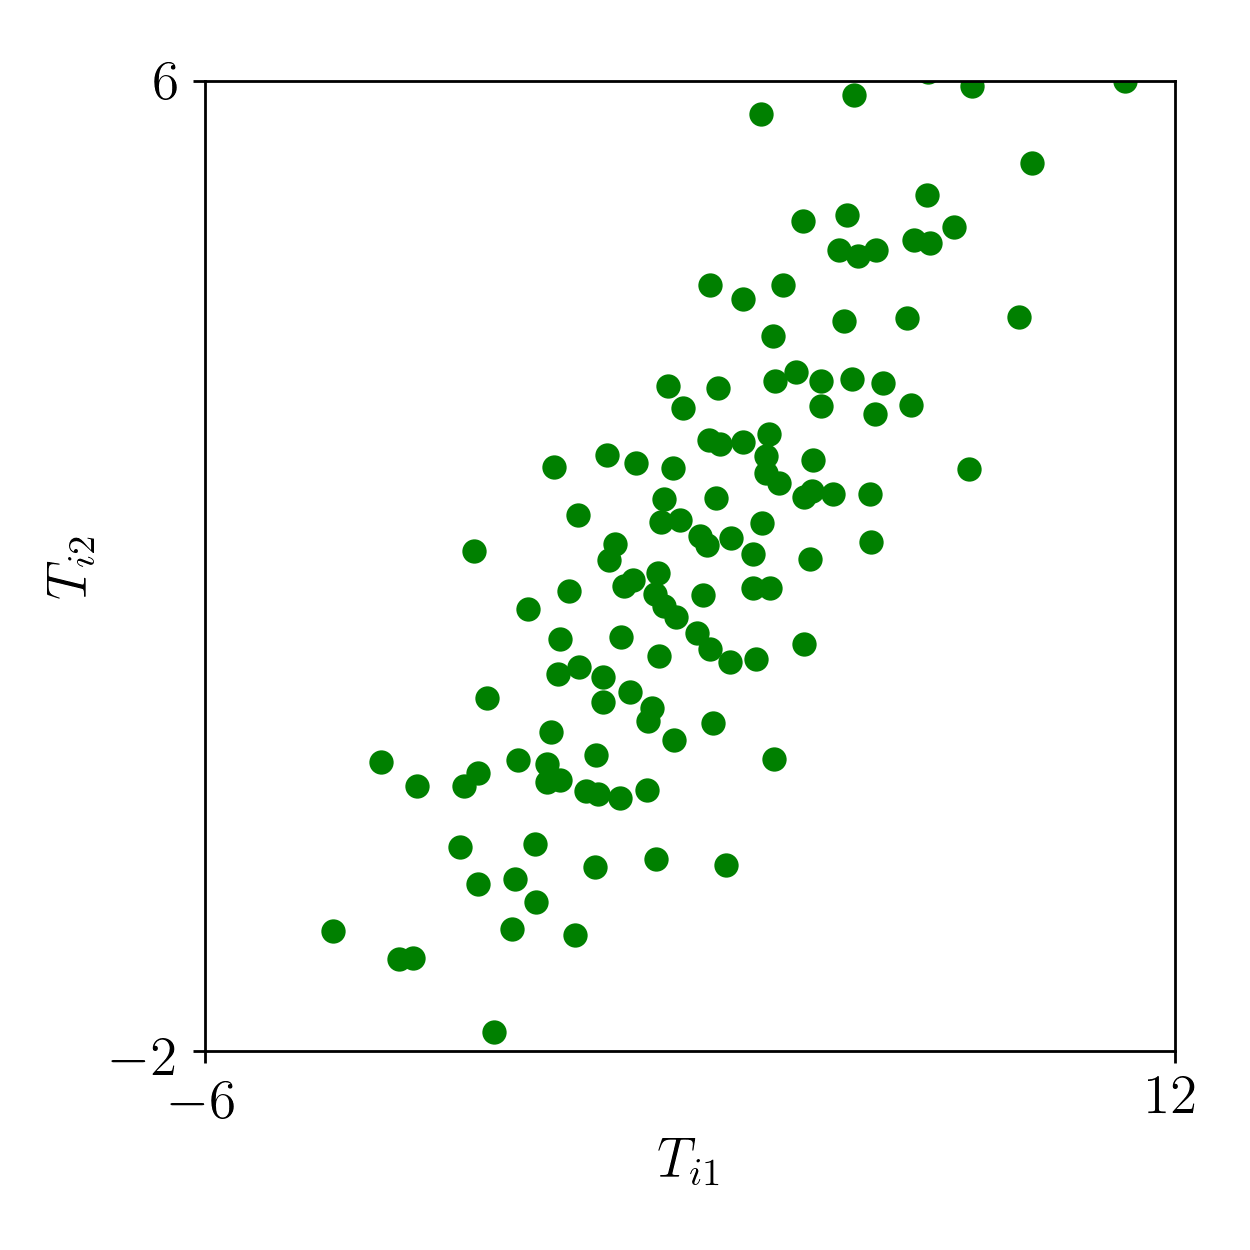
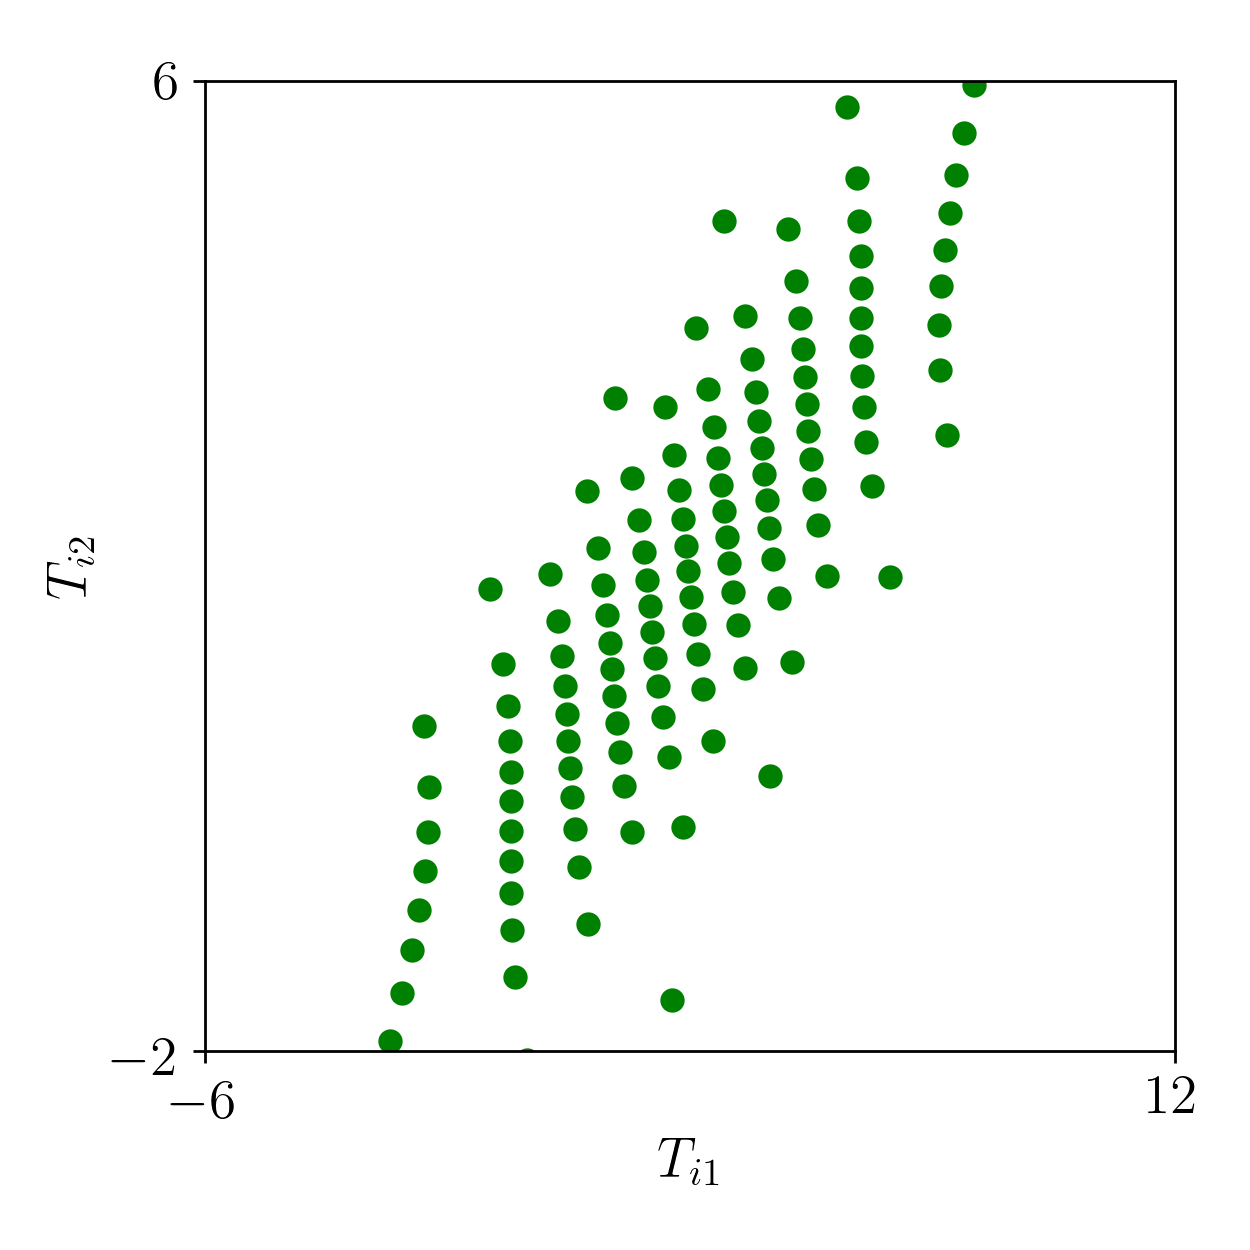
aleksei: fig3 updates

diff --git a/QMCSoftwareArticleNoRho.tex b/QMCSoftwareArticleNoRho.tex
@@ -413,9 +413,9 @@ Here the covariance decomposition $\mSigma = \mA \mA^T$ is done using principal 
 	\includegraphics[width=.45\textwidth]{QMCSoftwareArticle/figs/tm_uniform.png} 
 	%	\quad
 	\includegraphics[width=.45\textwidth]{QMCSoftwareArticle/figs/tm_gaussian.png}
-	\caption{Sobol' samples transformed to mimic a uniform $\calU\left( \begin{bmatrix} -2 \\ 0 \end{bmatrix},\begin{bmatrix} 2 \\ 4 \end{bmatrix} \right)$ 
+	\caption{Halton samples transformed to mimic a uniform $\calU\left( \begin{bmatrix} -2 \\ 0 \end{bmatrix},\begin{bmatrix} 2 \\ 4 \end{bmatrix} \right)$ 
 	%\frednote{This is not correct, we need the upper and lower endponts of a two dimensional interval.  Also, are these Sobol' or Halton as in the code?} 
-	(left) and  Gaussian $\calN\left(\begin{bmatrix} 3 \\ 2 \end{bmatrix}, \begin{bmatrix} 9 & 5 \\ 5 & 4 \end{bmatrix} \right)$ (right) distribution.}
+	distribution (left) and Lattice samples transformed to mimic a Gaussian $\calN\left(\begin{bmatrix} 3 \\ 2 \end{bmatrix}, \begin{bmatrix} 9 & 5 \\ 5 & 4 \end{bmatrix} \right)$ distribution (right).}
 	\label{fig:tm_ug}
 \end{figure}
 
@@ -632,7 +632,7 @@ We also plan to expand our library of digital net generating matrices. We wish t
 
 Our \texttt{DiscreteDistrution} places equal weights on each support point, $\bsX_i$.  In the future, we might generalize this to unequal weights.
 
-QMCPy already includes importance sampling, but the choice of sampling distribution must be chosen a priori.  We would like to see an automatic, adaptive choice following the developments of \cite{Asmussen2007StochasticS,approx_zero_variance_simulation} .
+QMCPy already includes importance sampling, but the choice of sampling distribution must be chosen a priori.  We would like to see an automatic, adaptive choice following the developments of \cite{AsmGly2007a}.
 
 Control variates can be useful for QMC as well as for IID MC \cite{HicEtal03}.  These should be incorporated into QMCPy in a seamless way.
 
